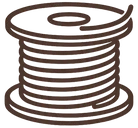
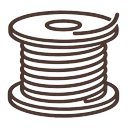
fix(navigation): pictogrammes de taille égale, « Outils » rattaché
Recadrés au plus juste, les dessins n'occupaient pas la même place : dans une
boîte carrée, un dessin large en remplissait la largeur et un dessin étroit la
hauteur, si bien que leurs tailles apparentes divergeaient d'une pastille à
l'autre. Ils sont désormais posés sur une toile carrée de 128 pixels, mis à
l'échelle sur leur plus grand côté — vingt-huit dessins occupant tous 88,3 % de
leur toile, mesuré.

« Outils » n'avait pas de dessin propre : il reprend celui d'Accessoires, une
pince et un flacon, qui le représente aussi bien.

L'ombre des surfaces posées est un peu accentuée : sur le fond très clair de
l'accueil, les cartes se détachaient à peine.

diff --git a/src/lib/category-visuals.ts b/src/lib/category-visuals.ts
@@ -97,10 +97,14 @@ const ILLUSTRATIONS: Record<string, string> = {
   déclinaisons de clearomiseur — le catalogue employant les deux graphies. Les familles sans
   dessin retombent sur leur symbole, aucune n'a besoin d'être déclarée ici.
 
-  Neuf de ces dessins sont dérivés des illustrations de `categories/page`, recadrées sur leur
-  contenu : la toile carrée d'origine est aux trois quarts vide et les aurait affichés deux
-  fois trop petits à côté des autres. Copiés et non déplacés — les en-têtes de catégorie
-  continuent d'employer les grands formats, ce sont deux usages distincts.
+  Neuf de ces dessins sont dérivés des illustrations de `categories/page`. Copiés et non
+  déplacés — les en-têtes de catégorie continuent d'employer les grands formats, ce sont deux
+  usages distincts.
+
+  Tous sont normalisés sur une toile carrée de 128 pixels, le dessin mis à l'échelle sur son
+  plus grand côté. Sans cela, recadrés au plus juste, un dessin large remplissait la largeur de
+  sa boîte et un dessin étroit sa hauteur : leurs tailles apparentes divergeaient d'une
+  pastille à l'autre.
 */
 const NAV_ICONS: Record<string, string> = {
   accessoires: "/navigation/accessoires.webp",
@@ -129,6 +133,9 @@ const NAV_ICONS: Record<string, string> = {
   kits: "/navigation/kit.webp",
   liquides: "/navigation/liquides.webp",
   mods: "/navigation/mods.webp",
+  // « Outils » n'a pas de dessin propre : celui d'Accessoires, une pince et un flacon, le
+  // représente aussi bien.
+  outils: "/navigation/accessoires.webp",
   "puffs rechargeables": "/navigation/puffs-rechargeables.webp",
   pyrex: "/navigation/pyrex.webp",
   "pyrex et reconstructibles": "/navigation/pyrex-reconstructibles.webp",

diff --git a/src/app/globals.css b/src/app/globals.css
@@ -35,8 +35,8 @@
 
   /* Relief des surfaces posées — cartes, tuiles, pastilles, champs. Il remplace le filet d'un
      pixel : un trait redécoupe la page en cases, l'ombre se contente de soulever. */
-  --gv-shadow-raised: 0 1px 2px rgb(68 54 46 / 0.10), 0 1px 6px rgb(68 54 46 / 0.06);
-  --gv-shadow-raised-strong: 0 2px 4px rgb(68 54 46 / 0.14), 0 4px 12px rgb(68 54 46 / 0.10);
+  --gv-shadow-raised: 0 1px 2px rgb(68 54 46 / 0.13), 0 2px 10px rgb(68 54 46 / 0.09);
+  --gv-shadow-raised-strong: 0 2px 4px rgb(68 54 46 / 0.17), 0 5px 16px rgb(68 54 46 / 0.13);
 
   --gv-hero-overlay: linear-gradient(
     90deg,
